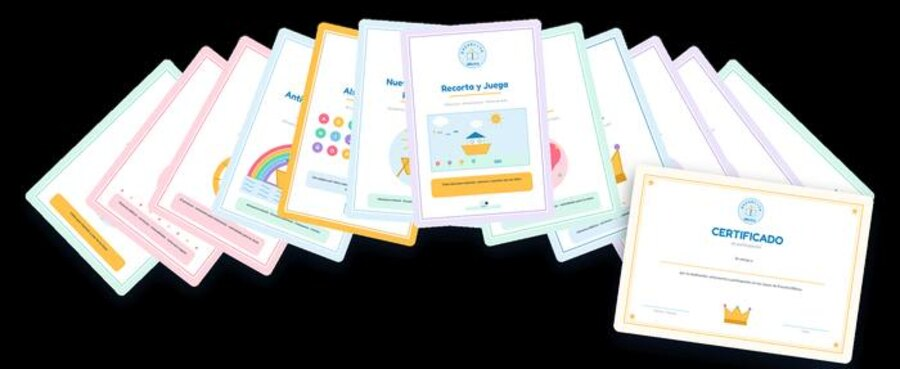
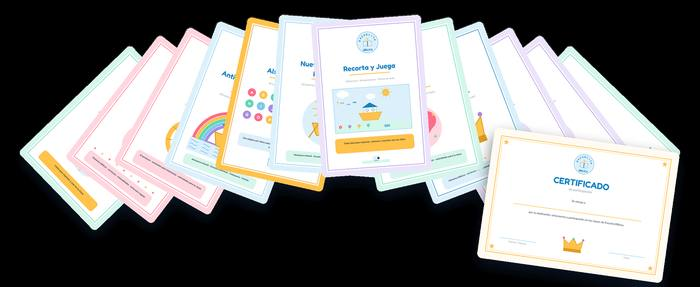
Corrige mockups: preserva transparencia (PNG) e remove upscale
- Mockups img_03..img_17 tinham alpha; converter para JPEG preenchia o
  fundo transparente de preto. Passam a ser servidos como PNG nativo.
- Remove ampliacao acima da resolucao nativa, que so borrava:
  img_01 820->404px, img_02 760->340px, img_19 900->700px, img_18 520->500px.

Claude-Session: https://claude.ai/code/session_01Gk82HCY9XjugqdosoEtFRr

diff --git a/index.html b/index.html
@@ -775,67 +775,67 @@ h1, h2, h3 { font-family: 'Fredoka', sans-serif; line-height: 1.25; }
     <img src="img/img_02_sm.jpg" alt="Cuadernos de Escuelita Bíblica" class="fan-banner">
     <div class="catalog-grid">
       <div class="cat-card">
-        <img src="img/img_03_sm.jpg" alt="Antiguo Testamento" class="cat-thumb">
+        <img src="img/img_03_sm.png" alt="Antiguo Testamento" class="cat-thumb">
         <h4>Antiguo Testamento</h4>
         <p>10 historias · 28 págs</p>
       </div>
       <div class="cat-card">
-        <img src="img/img_04_sm.jpg" alt="Nuevo Testamento" class="cat-thumb">
+        <img src="img/img_04_sm.png" alt="Nuevo Testamento" class="cat-thumb">
         <h4>Nuevo Testamento</h4>
         <p>10 historias · 28 págs</p>
       </div>
       <div class="cat-card">
-        <img src="img/img_05_sm.jpg" alt="Actividades Bíblicas" class="cat-thumb">
+        <img src="img/img_05_sm.png" alt="Actividades Bíblicas" class="cat-thumb">
         <h4>Actividades Bíblicas</h4>
         <p>Sopas, laberintos, unir · 37 págs</p>
       </div>
       <div class="cat-card">
-        <img src="img/img_06_sm.jpg" alt="Guía del Maestro" class="cat-thumb">
+        <img src="img/img_06_sm.png" alt="Guía del Maestro" class="cat-thumb">
         <h4>Guía del Maestro</h4>
         <p>Planificación completa · 15 págs</p>
       </div>
       <div class="cat-card">
-        <img src="img/img_07_sm.jpg" alt="Certificados" class="cat-thumb">
+        <img src="img/img_07_sm.png" alt="Certificados" class="cat-thumb">
         <h4>Certificados</h4>
         <p>3 modelos · 3 págs</p>
       </div>
       <div class="cat-card">
-        <img src="img/img_08_sm.jpg" alt="Alfabeto Bíblico" class="cat-thumb">
+        <img src="img/img_08_sm.png" alt="Alfabeto Bíblico" class="cat-thumb">
         <h4>Alfabeto Bíblico</h4>
         <p>A–Z con versículos · 29 págs</p>
       </div>
       <div class="cat-card">
-        <img src="img/img_09_sm.jpg" alt="Plan de Salvación" class="cat-thumb">
+        <img src="img/img_09_sm.png" alt="Plan de Salvación" class="cat-thumb">
         <h4>Plan de Salvación</h4>
         <p>6 lecciones · 10 págs</p>
       </div>
       <div class="cat-card">
-        <img src="img/img_10_sm.jpg" alt="Oración y Devoción" class="cat-thumb">
+        <img src="img/img_10_sm.png" alt="Oración y Devoción" class="cat-thumb">
         <h4>Oración y Devoción</h4>
         <p>6 lecciones · 10 págs</p>
       </div>
       <div class="cat-card">
-        <img src="img/img_11_sm.jpg" alt="El Amor de Dios" class="cat-thumb">
+        <img src="img/img_11_sm.png" alt="El Amor de Dios" class="cat-thumb">
         <h4>El Amor de Dios</h4>
         <p>6 lecciones · 10 págs</p>
       </div>
       <div class="cat-card">
-        <img src="img/img_12_sm.jpg" alt="Día de la Madre" class="cat-thumb">
+        <img src="img/img_12_sm.png" alt="Día de la Madre" class="cat-thumb">
         <h4>Día de la Madre</h4>
         <p>Actividades especiales · 7 págs</p>
       </div>
       <div class="cat-card">
-        <img src="img/img_13_sm.jpg" alt="Día del Padre" class="cat-thumb">
+        <img src="img/img_13_sm.png" alt="Día del Padre" class="cat-thumb">
         <h4>Día del Padre</h4>
         <p>Actividades especiales · 7 págs</p>
       </div>
       <div class="cat-card">
-        <img src="img/img_14_sm.jpg" alt="Día del Niño" class="cat-thumb">
+        <img src="img/img_14_sm.png" alt="Día del Niño" class="cat-thumb">
         <h4>Día del Niño</h4>
         <p>Actividades especiales · 7 págs</p>
       </div>
       <div class="cat-card">
-        <img src="img/img_15_sm.jpg" alt="Recorta y Juega" class="cat-thumb">
+        <img src="img/img_15_sm.png" alt="Recorta y Juega" class="cat-thumb">
         <h4>Recorta y Juega</h4>
         <p>7 diferencias, rompecabezas · 9 págs</p>
       </div>
@@ -897,14 +897,14 @@ h1, h2, h3 { font-family: 'Fredoka', sans-serif; line-height: 1.25; }
     <div class="bonus-grid">
       <div class="bonus-card animate">
         <div class="bonus-num">BONO 1</div>
-        <img src="img/img_16_sm.jpg" alt="200 Dinámicas Bíblicas" class="bonus-img">
+        <img src="img/img_16_sm.png" alt="200 Dinámicas Bíblicas" class="bonus-img">
         <h3>200 Dinámicas Bíblicas</h3>
         <p>Ideas listas para romper el hielo, reforzar la enseñanza y hacer que cada clase sea única.</p>
         <div class="bonus-tag">Para usar en cualquier clase</div>
       </div>
       <div class="bonus-card animate">
         <div class="bonus-num">BONO 2</div>
-        <img src="img/img_17_sm.jpg" alt="Guía de Fechas Especiales" class="bonus-img">
+        <img src="img/img_17_sm.png" alt="Guía de Fechas Especiales" class="bonus-img">
         <h3>Guía de Fechas Especiales</h3>
         <p>Actividades temáticas para Día de la Madre, del Padre, del Niño, Navidad y más.</p>
         <div class="bonus-tag">Calendario completo</div>
